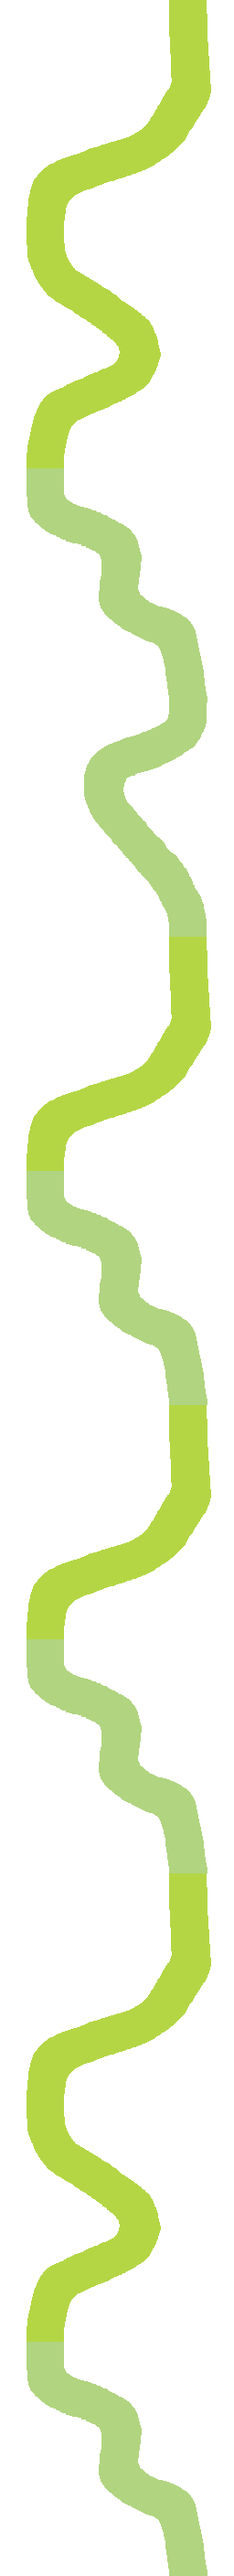
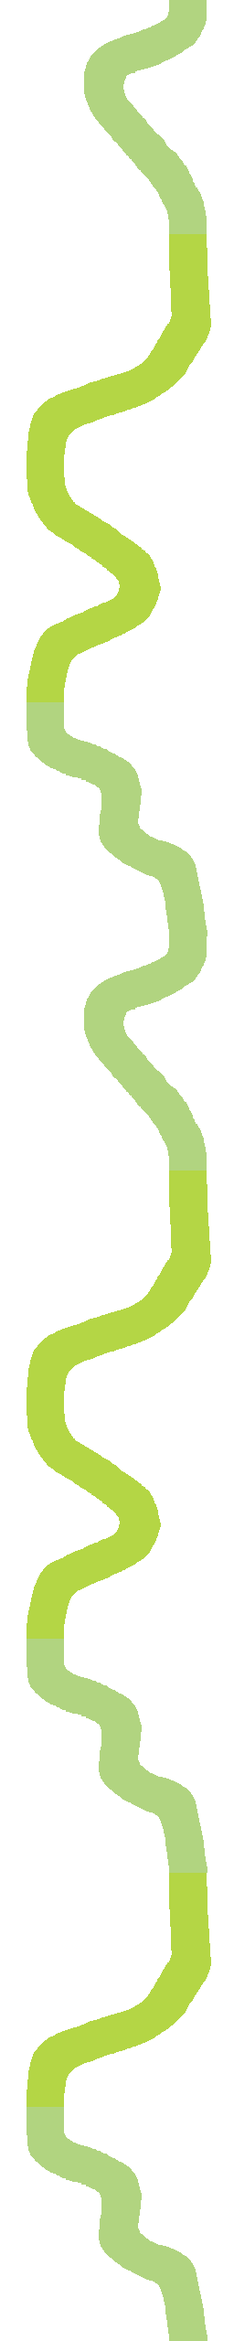
Version 0.5.0
-Map (Back-End) Package: Almost Done, Updated
-GUI (Front-End) Package: Started, Updated
-Network Package: Started, Updated

diff --git a/src/main/java/com/example/carrace12/ImplementazioneGrafica.java b/src/main/java/com/example/carrace12/ImplementazioneGrafica.java
@@ -16,6 +16,7 @@ import javafx.stage.Stage;
 import javafx.util.Duration;
 
 import java.awt.*;
+import java.awt.color.ICC_Profile;
 import java.io.FileInputStream;
 import java.io.IOException;
 import java.io.InputStream;
@@ -39,39 +40,109 @@ import map.Map;
  * @since 02/05/2022
  */
 
-//allora, to-do list di oggi:
+//allora, to-do list:
 /*
     - rendere più facile la creazione della mappa
     - renderla una funzione
     - migliorare il movimento della macchina
     - rendere fixed lo schermo, non permettendo di visionare lo spazio bianco
     - rimpicciolire la macchina perché ora come ora è troppo grande
-
-
- * ho aggiornato (messo anche su giT) la mappa con anche al funzione lenght che ho visto che volpo voleva
- tipo getLength()? si per ora ho fatto una cosa bruttissima che funziona, ma non è molto elegante
-
- ma che cazzo???? copilot mi consiglia pure le frasi in italiano [faccina dello scheletro]
  */
-
-
-
 
 public class ImplementazioneGrafica extends Application{
     int newY, newX;
     int cameraX, cameraY;
     int incremento = 5;
 
-    Map map = new Map("99999");
+    /**
+     * Map of the game.
+     */
+    Map map;
 
-    final int MAP_WIDTH = 256;
-    final int MAP_HEIGHT = 256*map.length();
+    /**
+     * Set containing the keys pressed.
+     */
+    Set<KeyCode> pressedKeys;
 
-    Set<KeyCode> pressedKeys = new HashSet<>();
+    /**
+     * Map Width.
+     */
+    int MAP_WIDTH;
+
+    /**
+     * Map Height.
+     */
+    int MAP_HEIGHT;
+
+    /**
+     * Initializes the GUI.
+     *
+     * @author Marco Marrelli
+     * @version 0.3.0
+     * @since 12/05/2022
+     * @param map, the map to be displayed
+     */
+    public void init(Map map) {
+        this.map = map;
+        this.pressedKeys = new HashSet<>();
+
+        this.MAP_WIDTH = Chunk.CHUNK_WIDTH;
+        this.MAP_HEIGHT = Chunk.CHUNK_WIDTH*map.length();
+    }
+
+    /**
+     * Generates the graphic map and layout map.
+     *
+     * @author Marco Marrelli
+     * @since 10/05/2022
+     * @version 0.3.0
+     * @return boolean, true if the map is generated, false otherwise.
+     * @throws IOException
+     */
+    public boolean generateMap() throws IOException {
+        List<String> chunkList = map.getChunksNames();
+
+        if(chunkList == null){ return false; }
+
+        int nimx = 0, nimy = 0;
+        BufferedImage showedResult = new BufferedImage(MAP_WIDTH, MAP_HEIGHT, BufferedImage.TYPE_INT_RGB);
+        BufferedImage layoutResult = new BufferedImage(MAP_WIDTH, MAP_HEIGHT, BufferedImage.TYPE_INT_RGB);
+        Graphics showedG = showedResult.getGraphics();
+        Graphics layoutG = layoutResult.getGraphics();
+
+        for (String image : chunkList) {
+            String showedPath = "src/main/resources/ChunkShowed/" + image + ".png";
+            String layoutPath = "src/main/resources/ChunkLayouts/" + image + ".png";
+            BufferedImage showedBI = ImageIO.read(new File(showedPath));
+            BufferedImage layoutBI = ImageIO.read(new File(layoutPath));
+
+            if(showedBI == null || layoutBI == null){ return false; }
+
+            showedG.drawImage(showedBI, nimx, nimy, null);
+            layoutG.drawImage(layoutBI, nimx, nimy, null);
+
+            nimy += MAP_WIDTH;
+            if (nimy > showedResult.getHeight() || nimy > layoutResult.getHeight()) {
+                nimy = 0;
+                nimx += MAP_WIDTH;
+            }
+        }
+
+        boolean checkShowedMap = ImageIO.write(showedResult, "png", new File("src/main/resources/map.png"));
+        boolean checkLayoutMap = ImageIO.write(layoutResult, "png", new File("src/main/resources/mapLayout.png"));
+
+        if(checkShowedMap && checkLayoutMap){
+            Collections.reverse(chunkList);
+            System.out.println(chunkList);
+            return true;
+        }
+
+        return false;
+    }
 
     @Override
     public void start(Stage stage) throws IOException {
-
+        init(new Map());
         generateMap();
         //FXMLLoader fxmlLoader = new FXMLLoader(HelloApplication.class.getResource("hello-view.fxml"));
 
@@ -176,51 +247,7 @@ public class ImplementazioneGrafica extends Application{
         stage.show();
     }
 
-    public boolean generateMap() throws IOException {
-        List<String> chunkList = new ArrayList<>();
-        for (Chunk c : map) {
-            String dummy = "" + c.getId() + "_" + c.getStart().toString().substring(0, 1).toLowerCase() + c.getEnd().toString().substring(0, 1).toLowerCase() + ".png";
-            chunkList.add(dummy);
-        }
-        Collections.reverse(chunkList);
-
-        if(chunkList == null){ return false; }
-
-        int nimx = 0, nimy = 0;
-        BufferedImage showedResult = new BufferedImage(MAP_WIDTH, MAP_HEIGHT, BufferedImage.TYPE_INT_RGB);
-        BufferedImage layoutResult = new BufferedImage(MAP_WIDTH, MAP_HEIGHT, BufferedImage.TYPE_INT_RGB);
-        Graphics showedG = showedResult.getGraphics();
-        Graphics layoutG = layoutResult.getGraphics();
-
-        for (String image : chunkList) {
-            String showedPath = "src/main/resources/ChunkShowed/" + image;
-            String layoutPath = "src/main/resources/ChunkLayouts/" + image;
-            BufferedImage showedBI = ImageIO.read(new File(showedPath));
-            BufferedImage layoutBI = ImageIO.read(new File(layoutPath));
-
-            if(showedBI == null || layoutBI == null){ return false; }
-
-            showedG.drawImage(showedBI, nimx, nimy, null);
-            layoutG.drawImage(layoutBI, nimx, nimy, null);
-
-            nimy += MAP_WIDTH;
-            if (nimy > showedResult.getHeight() || nimy > layoutResult.getHeight()) {
-                nimy = 0;
-                nimx += MAP_WIDTH;
-            }
-        }
-
-        boolean checkShowedMap = ImageIO.write(showedResult, "png", new File("src/main/resources/map.png"));
-        boolean checkLayoutMap = ImageIO.write(layoutResult, "png", new File("src/main/resources/mapLayout.png"));
-
-        if(checkShowedMap && checkLayoutMap){ return true; }
-
-        return false;
-    }
-
-
     public static void main(String[] args) {
-        System.out.println(Map.generateSeed());
         launch();
     }
 }

diff --git a/src/main/java/net/CRServer.java b/src/main/java/net/CRServer.java
@@ -27,39 +27,31 @@ public class CRServer {
     public CRPort port;
 
     /**
-     * For the Map, if it has
-     * a seed or not.
+     * Map of the Lobby game.
      */
-    private String hasSeed = "";
+    private Map map;
 
     /**
-     * Map of the Lobby.
+     * Map's seed.
      */
-    static Map map;
+    private String seed;
 
     /**
-     * CRServer Constructor.
+     * CRServer Constructor(s).
      *
      * Initializes the Server and creates the map.
      * with or without a seed
      */
-    public CRServer(){
+    public CRServer(Map map){
         this.server = new Server();
-
-        if(hasSeed.isEmpty()){ map = new Map(); }
-        else{ map = new Map(hasSeed); }
+        this.map = map;
+        this.seed = map.seed;
     }
 
-    /**
-     * Sets the seed of the map.
-     *
-     * @param seed seed of the map.
-     * @author Marco Marrelli
-     * @since 11/05/2022
-     * @version 0.1.0
-     */
-    public void setSeed(String seed){
-        hasSeed = seed;
+    public CRServer(){
+        this.server = new Server();
+        this.map = new Map();
+        this.seed = map.seed;
     }
 
     /**
@@ -92,4 +84,14 @@ public class CRServer {
      * @version 0.1.0
      */
     public void close(){ this.server.close(); }
+
+    public void listen(){
+        this.server.addListener(new Listener() {
+            public void received (Connection connection, Object object) {
+                if (object instanceof String) {
+
+                }
+            }
+        });
+    }
 }

diff --git a/src/main/java/net/CRPort.java b/src/main/java/net/CRPort.java
@@ -32,14 +32,52 @@ public class CRPort {
         this.isUsed = isUsed;
     }
 
+    /**
+     * Port ID Getter.
+     *
+     * @author Marco Marrelli
+     * @since 11/05/2022
+     * @version 0.1.0
+     * @return int, port ID.
+     */
     public int getID () { return ID; }
 
+    /**
+     * TCP Port Getter.
+     *
+     * @author Marco Marrelli
+     * @since 11/05/2022
+     * @version 0.1.0
+     * @return int, TCP Port.
+     */
     public int getTCPPort () { return TCPPort; }
 
+    /**
+     * Port Used Status Getter.
+     *
+     * @author Marco Marrelli
+     * @since 11/05/2022
+     * @version 0.1.0
+     * @return boolean, if port is used or not.
+     */
     public boolean isUsed () { return isUsed; }
 
+    /**
+     * TCP Port Setter.
+     *
+     * @author Marco Marrelli
+     * @since 11/05/2022
+     * @version 0.1.0
+     */
     public void setTCPPort (int TCPPort) { this.TCPPort = TCPPort; }
 
+    /**
+     * TCP Used Status Setter.
+     *
+     * @author Marco Marrelli
+     * @since 11/05/2022
+     * @version 0.1.0
+     */
     public void setUsed (boolean used) { this.isUsed = used; }
 
     @Override

diff --git a/src/main/java/map/Map.java b/src/main/java/map/Map.java
@@ -45,7 +45,7 @@ public class Map implements Iterable<Chunk> {
     /**
      * The seed that generate this map.
      */
-    protected final String seed;
+    public final String seed;
 
     /**
      * If the Map was generater from an user seed
@@ -144,6 +144,25 @@ public class Map implements Iterable<Chunk> {
         }
 
         return map;
+    }
+
+    /**
+     * Returns the chunk name list of the map.
+     *
+     * @version 0.2.0
+     * @author Marco Marrelli
+     * @see Chunk
+     * @return String List, containing the chunks of the map names.
+     */
+    public List<String> getChunksNames() {
+        List<String> chunkList = new ArrayList<>();
+        for (Chunk c : map) {
+            String dummy = "" + c.getId() + "_" + c.getStart().toString().substring(0, 1).toLowerCase() + c.getEnd().toString().substring(0, 1).toLowerCase();
+            chunkList.add(dummy);
+        }
+        Collections.reverse(chunkList);
+
+        return chunkList;
     }
 
     /**

diff --git a/src/main/java/map/Chunk.java b/src/main/java/map/Chunk.java
@@ -23,6 +23,8 @@ public class Chunk {
 	protected final Way start;
 	protected final Way end;
 
+	public static final int CHUNK_WIDTH = 256;
+
 	/**
 	 * @param id the id of the chunk
 	 * @param start the start way of the chunk
@@ -48,7 +50,7 @@ public class Chunk {
 
 	/**
 	 * example of a chunk name "<id>_<start><end>" --> 1_lr --> id = 1, start = left, end = right
-	 * @return the list of chunk names
+	 * @return the list of all chunks names
 	 */
 	public static String @NotNull [] getChunksName () {
 		Gson gson = new Gson ();
